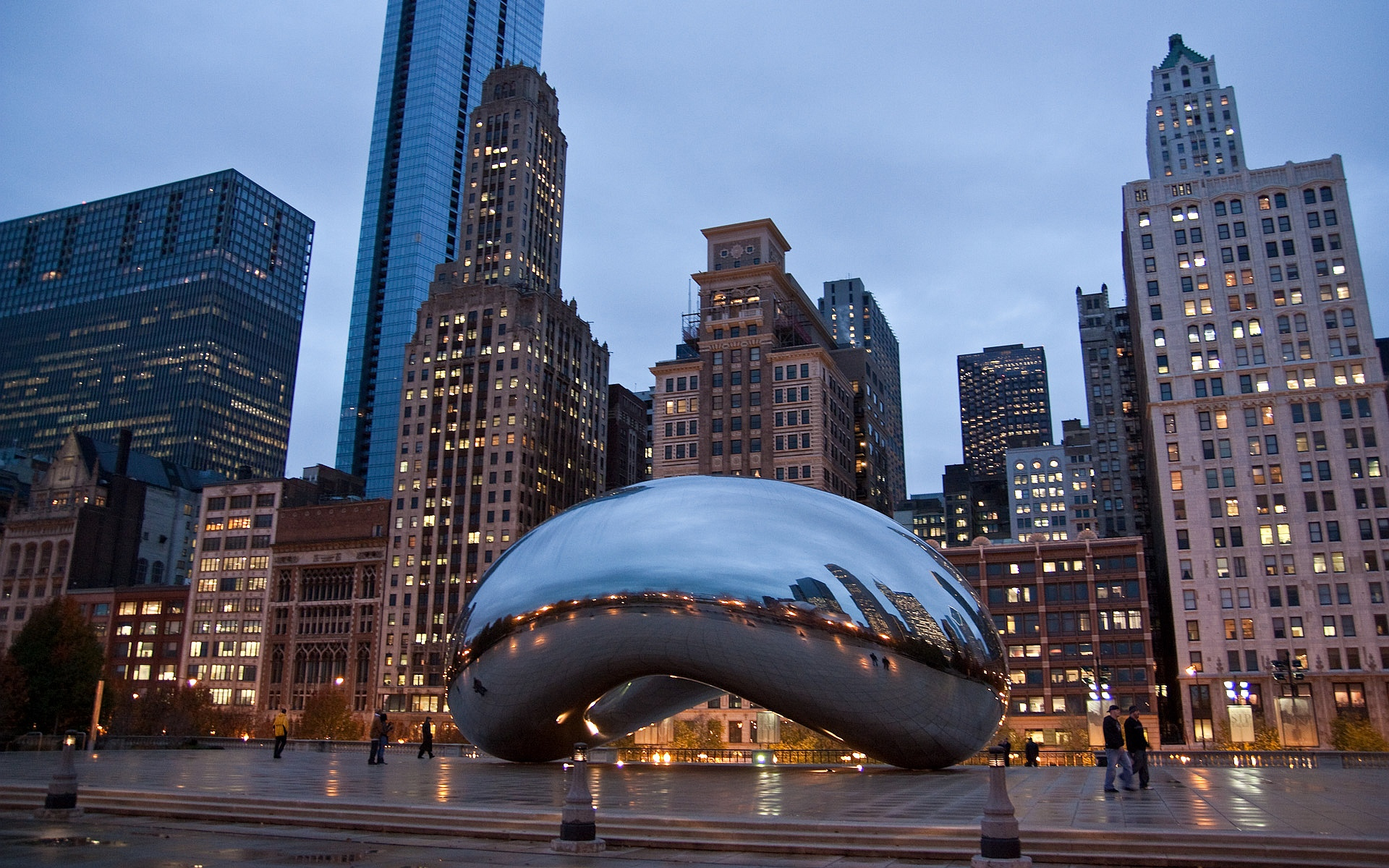
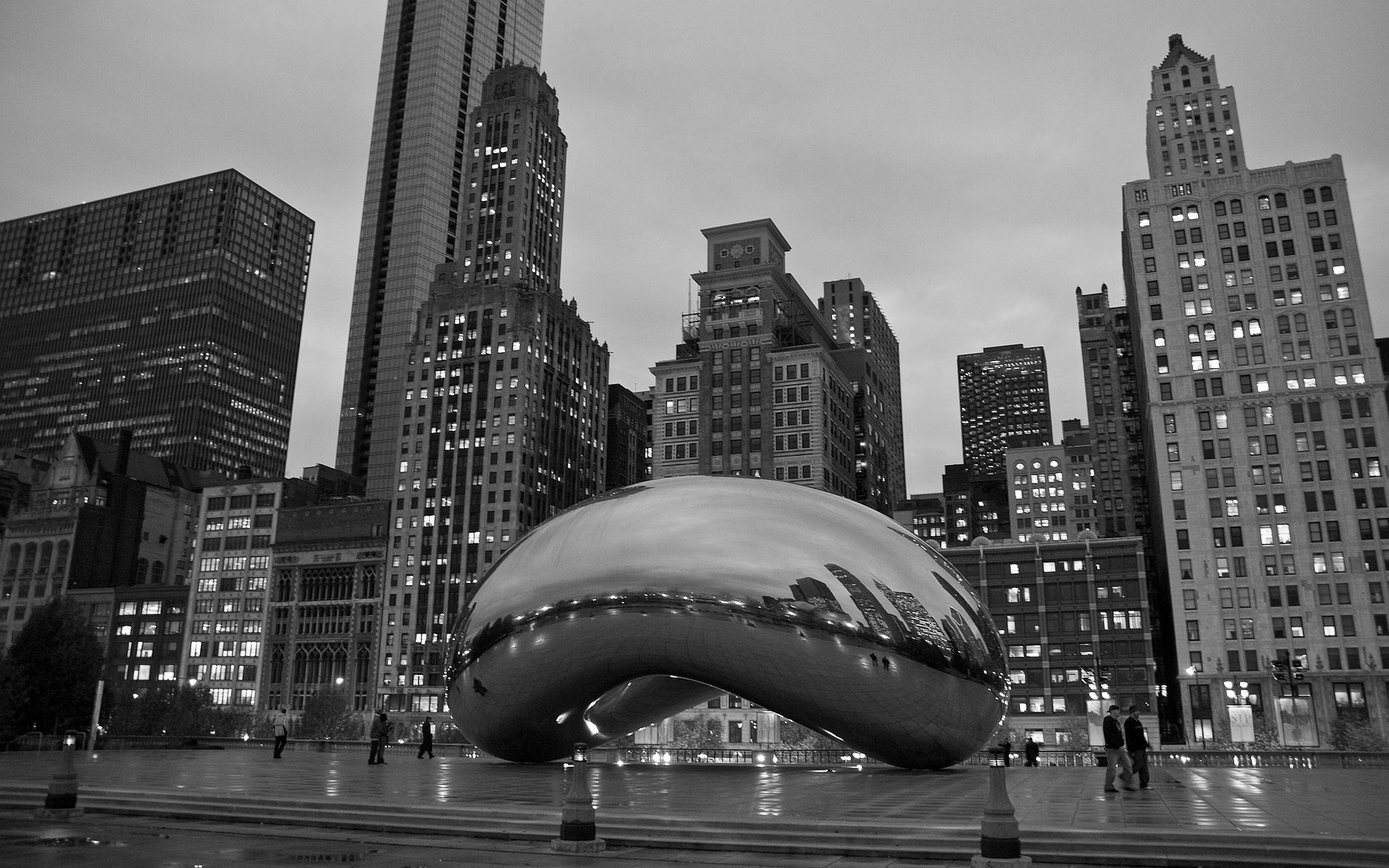
dashboad: change style of the title line

diff --git a/client/views/style.css b/client/views/style.css
@@ -1,5 +1,5 @@
 html {
-  background: url(pics/bg/chicago_bw.jpg) no-repeat center center fixed;
+  background: url(pics/bg/chicago.jpg) no-repeat center center fixed;
   -webkit-background-size: cover;
   -moz-background-size: cover;
   -o-background-size: cover;
@@ -77,11 +77,18 @@ ul {
 }
 
 .title {
-  /*left: 40vw;*/
-  /*top: 10vh;*/
-  /*width: 20vw;*/
+  width: 20vw;
   height: 50px;
   color: white;
   border: 2px white solid;
   border-radius: 5px;
+  text-align: center;
+  line-height: 50px;
+  margin: 0px;
+  padding: 0px;
+  font-family: 'Special Elite', cursive;
+}
+
+.dashboard_title {
+  margin-bottom: 30px;
 }

diff --git a/client/views/dashboard/dashboard.html b/client/views/dashboard/dashboard.html
@@ -1,5 +1,5 @@
 <div class="boxed">
-  <div class="row">
+  <div class="row dashboard_title">
     <div class="col-xs-3">
       <h2 class="title">Vantage View</h2>
     </div>
